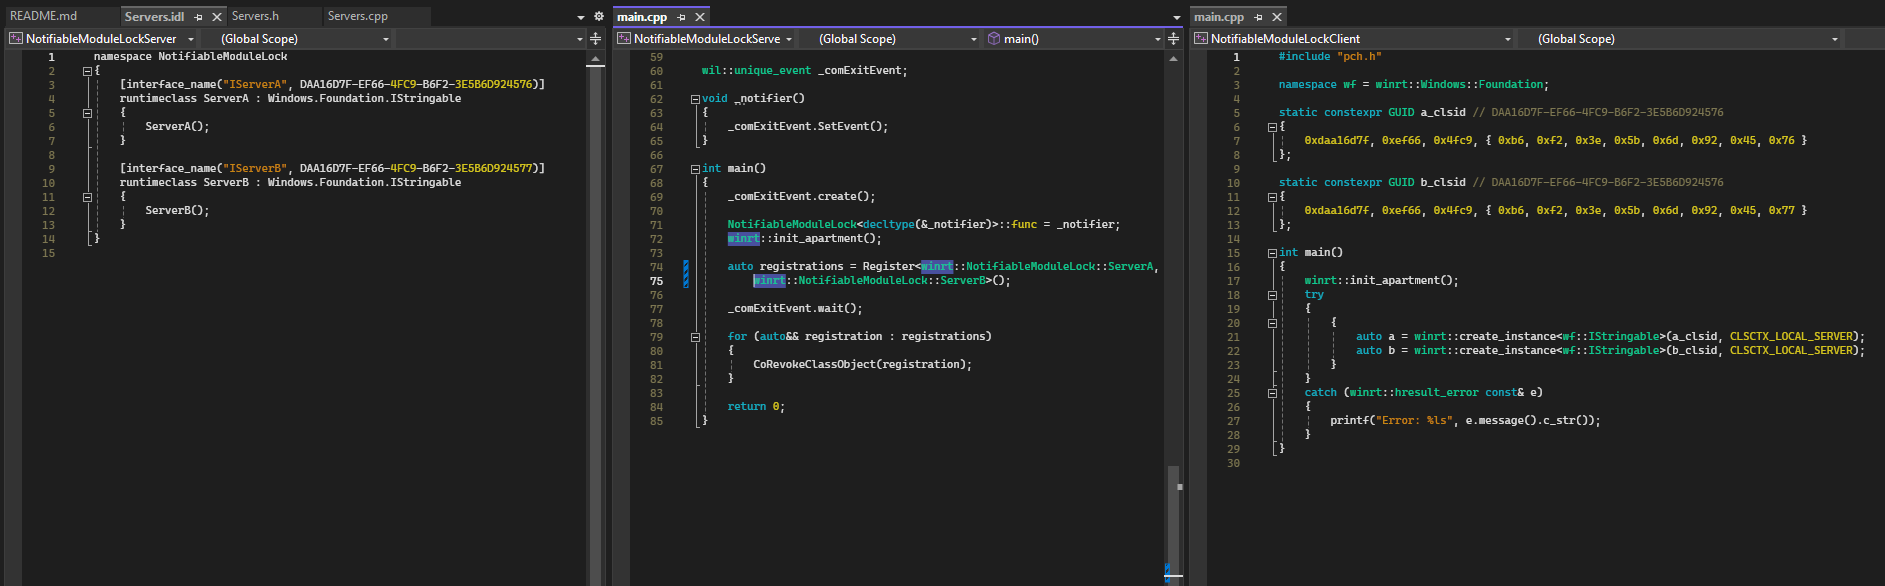
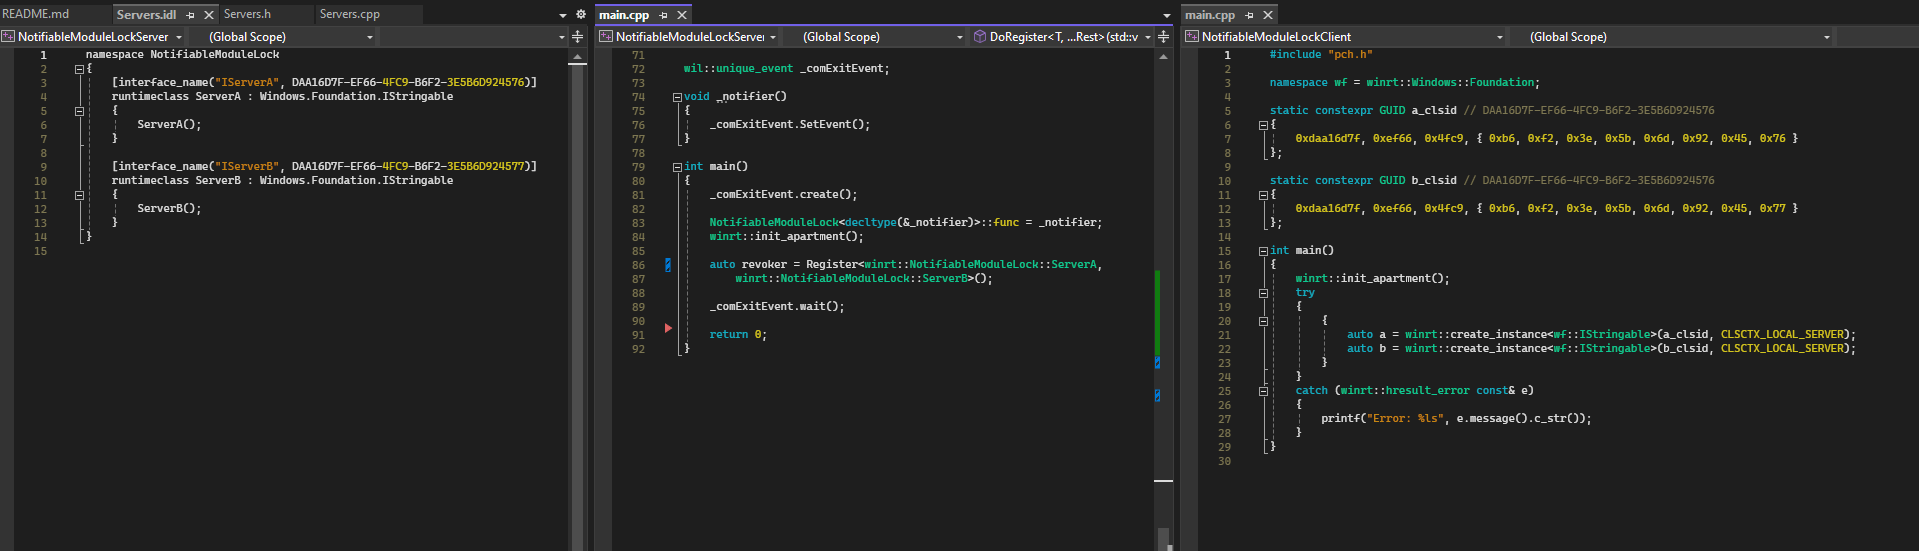
Add RAII revoker

diff --git a/NotifiableModuleLockServer/main.cpp b/NotifiableModuleLockServer/main.cpp
@@ -30,13 +30,25 @@ struct Factory : winrt::implements<Factory<T>, IClassFactory, winrt::no_module_l
     }
 };
 
+struct Revoker
+{
+    std::vector<DWORD> registrations;
+    ~Revoker()
+    {
+        for (auto&& registration : registrations)
+        {
+            CoRevokeClassObject(registration);
+        }
+    }
+};
+
 template<typename T, typename... Rest>
-std::vector<DWORD> Register()
+Revoker Register()
 {
     std::vector<DWORD> registrations;
     registrations.reserve(sizeof...(Rest) + 1);
     DoRegister<T, Rest...>(registrations);
-    return registrations;
+    return { std::move(registrations) };
 }
 
 template<typename T = void, typename... Rest>
@@ -71,15 +83,10 @@ int main()
     NotifiableModuleLock<decltype(&_notifier)>::func = _notifier;
     winrt::init_apartment();
 
-    auto registrations = Register<winrt::NotifiableModuleLock::ServerA,
+    auto revoker = Register<winrt::NotifiableModuleLock::ServerA,
         winrt::NotifiableModuleLock::ServerB>();
 
     _comExitEvent.wait();
-
-    for (auto&& registration : registrations)
-    {
-        CoRevokeClassObject(registration);
-    }
 
     return 0;
 }
